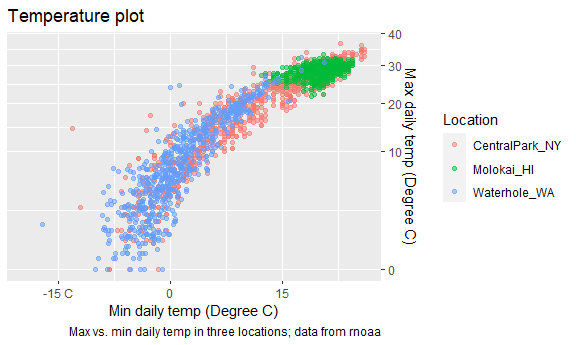
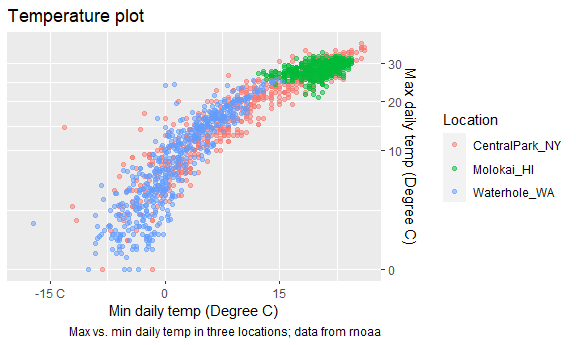
more plots

diff --git a/viz_part2.md b/viz_part2.md
@@ -19,7 +19,8 @@ library(tidyverse)
     ## ℹ Use the conflicted package (<http://conflicted.r-lib.org/>) to force all conflicts to become errors
 
 ``` r
-library(ggridges)
+library(patchwork)
+#library(ggridges)
 
 knitr::opts_chunk$set(
   fig.width = 6,
@@ -33,8 +34,8 @@ weather_df =
   rnoaa::meteo_pull_monitors(
     c("USW00094728", "USW00022534", "USS0023B17S"),
     var = c("PRCP", "TMIN", "TMAX"), 
-    date_min = "2021-01-01",
-    date_max = "2022-12-31") |>
+    date_min = "2022-01-01",
+    date_max = "2023-12-31") |>
   mutate(
     name = recode(
       id, 
@@ -64,6 +65,8 @@ weather_df =
 
     ## file min/max dates: 1999-09-01 / 2023-09-30
 
+This results in a dataframe with 1914 observations on six variables.
+
 ## Same plot from last time
 
 ``` r
@@ -78,7 +81,7 @@ weather_df |>
     caption = "Max vs. min daily temp in three locations; data from rnoaa")
 ```
 
-    ## Warning: Removed 17 rows containing missing values (`geom_point()`).
+    ## Warning: Removed 72 rows containing missing values (`geom_point()`).
 
 <img src="viz_part2_files/figure-gfm/unnamed-chunk-3-1.png" width="90%" />
 
@@ -106,7 +109,7 @@ weather_df |>
 
     ## Warning: Transformation introduced infinite values in continuous y-axis
 
-    ## Warning: Removed 142 rows containing missing values (`geom_point()`).
+    ## Warning: Removed 177 rows containing missing values (`geom_point()`).
 
 <img src="viz_part2_files/figure-gfm/unnamed-chunk-4-1.png" width="90%" />
 
@@ -123,8 +126,198 @@ weather_df |>
   viridis::scale_color_viridis(discrete = TRUE)
 ```
 
-    ## Warning: Removed 17 rows containing missing values (`geom_point()`).
+    ## Warning: Removed 72 rows containing missing values (`geom_point()`).
 
 <img src="viz_part2_files/figure-gfm/unnamed-chunk-5-1.png" width="90%" />
 
 ## Themes
+
+``` r
+weather_df |> 
+  ggplot(aes(x = tmin, y = tmax, color = name)) +
+  geom_point(alpha = 0.5) +
+  labs(
+    title = "Temperature plot",
+    x = "Min daily temp (Degree C)",
+    y = "Max daily temp (Degree C)",
+    color = "Location",
+    caption = "Max vs. min daily temp in three locations; data from rnoaa") +
+  viridis::scale_color_viridis(discrete = TRUE) +
+  theme_bw() +
+  theme(legend.position = "bottom")
+```
+
+    ## Warning: Removed 72 rows containing missing values (`geom_point()`).
+
+<img src="viz_part2_files/figure-gfm/unnamed-chunk-6-1.png" width="90%" />
+
+## data argument
+
+``` r
+weather_df |> 
+  ggplot(aes(x = date, y = tmax, color = name)) +
+  geom_point() +
+  geom_smooth()
+```
+
+    ## `geom_smooth()` using method = 'loess' and formula = 'y ~ x'
+
+    ## Warning: Removed 72 rows containing non-finite values (`stat_smooth()`).
+
+    ## Warning: Removed 72 rows containing missing values (`geom_point()`).
+
+<img src="viz_part2_files/figure-gfm/unnamed-chunk-7-1.png" width="90%" />
+
+``` r
+nyc_weather_df <-
+  weather_df |> 
+  filter(name == "CentralPark_NY")
+
+hawaii_weather_df <-
+  weather_df |> 
+  filter(name == "Molokai_HI")
+
+ggplot(nyc_weather_df, aes(x = date, y = tmax, color = name)) +
+  geom_point() +
+  geom_line(data = hawaii_weather_df)
+```
+
+    ## Warning: Removed 26 rows containing missing values (`geom_point()`).
+
+    ## Warning: Removed 5 rows containing missing values (`geom_line()`).
+
+<img src="viz_part2_files/figure-gfm/unnamed-chunk-7-2.png" width="90%" />
+
+## `patchwork`
+
+``` r
+weather_df |> 
+  ggplot(aes(x = date, y = tmax, color = name)) +
+  geom_point() +
+  facet_grid(. ~ name)
+```
+
+    ## Warning: Removed 72 rows containing missing values (`geom_point()`).
+
+<img src="viz_part2_files/figure-gfm/unnamed-chunk-8-1.png" width="90%" />
+
+``` r
+ggp_temp_scatter <-
+  weather_df |> 
+  ggplot(aes(x = tmin, y = tmax, color = name)) +
+  geom_point(alpha = 0.5) +
+  theme(legend.position = "none")
+
+ggp_prcp_density <-
+  weather_df |> 
+  filter(prcp > 25) |> 
+  ggplot(aes(x = prcp, fill = name)) +
+  geom_density(alpha = 0.5) +
+  theme(legend.position = "none")
+
+ggp_tmax_date <-
+  weather_df |> 
+  ggplot(aes(x = date, y = tmax, color = name)) +
+  geom_point() +
+  geom_smooth(se = FALSE) +
+  theme(legend.position = "bottom")
+
+(ggp_temp_scatter + ggp_prcp_density) / ggp_tmax_date
+```
+
+    ## Warning: Removed 72 rows containing missing values (`geom_point()`).
+
+    ## `geom_smooth()` using method = 'loess' and formula = 'y ~ x'
+
+    ## Warning: Removed 72 rows containing non-finite values (`stat_smooth()`).
+    ## Removed 72 rows containing missing values (`geom_point()`).
+
+<img src="viz_part2_files/figure-gfm/unnamed-chunk-9-1.png" width="90%" />
+
+## data manipulation
+
+``` r
+weather_df |> 
+  mutate(
+    name = fct_relevel(name, c("Molokai_HI", "CentralPark_NY", "Waterhole_WA"))
+  ) |> 
+  ggplot(aes(x = name, y = tmax)) +
+  geom_boxplot()
+```
+
+    ## Warning: Removed 72 rows containing non-finite values (`stat_boxplot()`).
+
+<img src="viz_part2_files/figure-gfm/unnamed-chunk-10-1.png" width="90%" />
+
+``` r
+weather_df |> 
+  mutate(
+    name = fct_reorder(name, tmax)
+  ) |> 
+  ggplot(aes(x = name, y = tmax, fill = name)) +
+  geom_violin()
+```
+
+    ## Warning: There was 1 warning in `mutate()`.
+    ## ℹ In argument: `name = fct_reorder(name, tmax)`.
+    ## Caused by warning:
+    ## ! `fct_reorder()` removing 72 missing values.
+    ## ℹ Use `.na_rm = TRUE` to silence this message.
+    ## ℹ Use `.na_rm = FALSE` to preserve NAs.
+
+    ## Warning: Removed 72 rows containing non-finite values (`stat_ydensity()`).
+
+<img src="viz_part2_files/figure-gfm/unnamed-chunk-10-2.png" width="90%" />
+
+## complicated FAS plot
+
+``` r
+litters_df <-
+  read_csv("data/FAS_litters.csv") |> 
+  janitor::clean_names() |> 
+  separate(group, into = c("dose", "day_of_tx"), sep = 3)
+```
+
+    ## Rows: 49 Columns: 8
+    ## ── Column specification ────────────────────────────────────────────────────────
+    ## Delimiter: ","
+    ## chr (2): Group, Litter Number
+    ## dbl (6): GD0 weight, GD18 weight, GD of Birth, Pups born alive, Pups dead @ ...
+    ## 
+    ## ℹ Use `spec()` to retrieve the full column specification for this data.
+    ## ℹ Specify the column types or set `show_col_types = FALSE` to quiet this message.
+
+``` r
+pups_df <-
+  read_csv("data/FAS_pups.csv") |> 
+  janitor::clean_names()
+```
+
+    ## Rows: 313 Columns: 6
+    ## ── Column specification ────────────────────────────────────────────────────────
+    ## Delimiter: ","
+    ## chr (1): Litter Number
+    ## dbl (5): Sex, PD ears, PD eyes, PD pivot, PD walk
+    ## 
+    ## ℹ Use `spec()` to retrieve the full column specification for this data.
+    ## ℹ Specify the column types or set `show_col_types = FALSE` to quiet this message.
+
+``` r
+fas_df <-
+  left_join(pups_df, litters_df, by = "litter_number")
+
+fas_df |> 
+  select(dose, day_of_tx, starts_with("pd")) |> 
+  pivot_longer(
+    pd_ears:pd_walk,
+    names_to = "outcome", 
+    values_to = "pn_day"
+  ) |> 
+  drop_na() |>
+  mutate(outcome = fct_reorder(outcome, pn_day)) |> 
+  ggplot(aes(x = dose, y = pn_day)) +
+  geom_violin() +
+  facet_grid(day_of_tx ~ outcome)
+```
+
+<img src="viz_part2_files/figure-gfm/unnamed-chunk-11-1.png" width="90%" />
